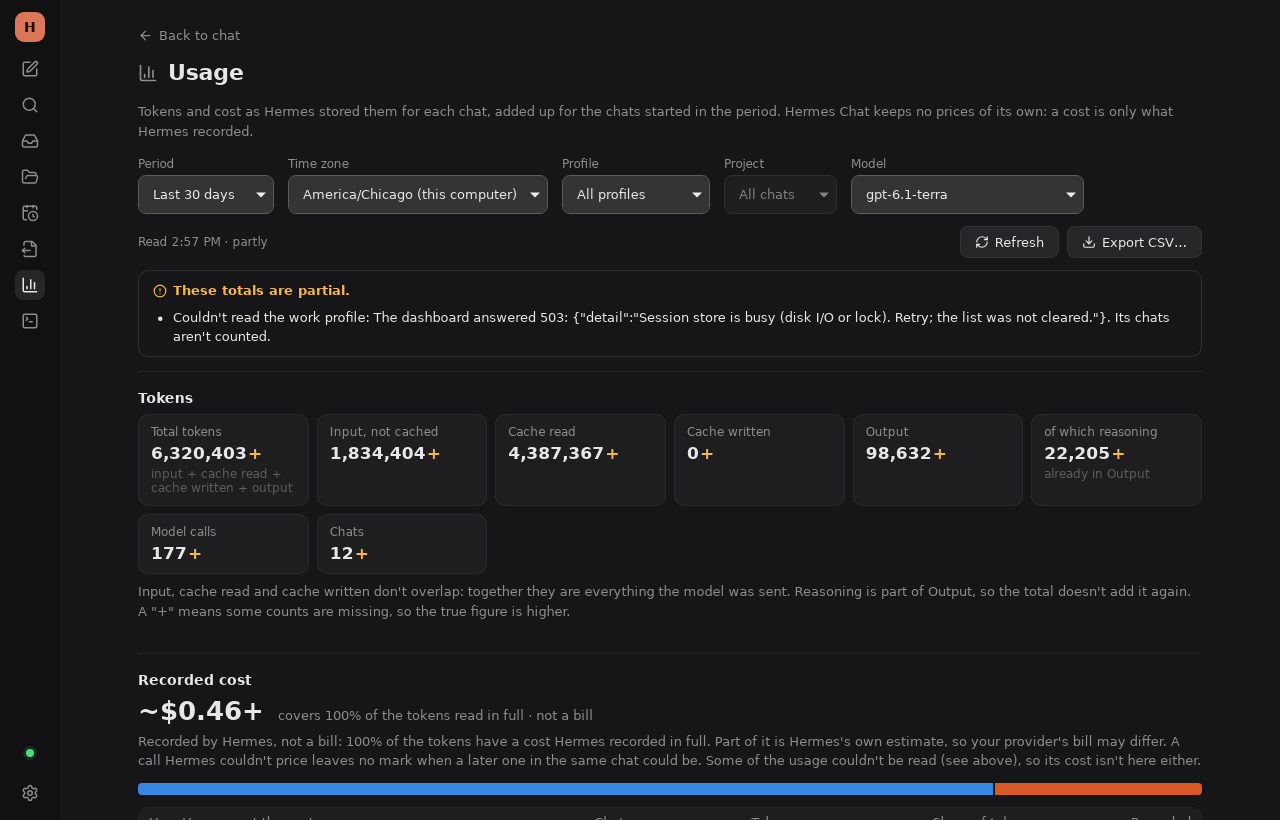
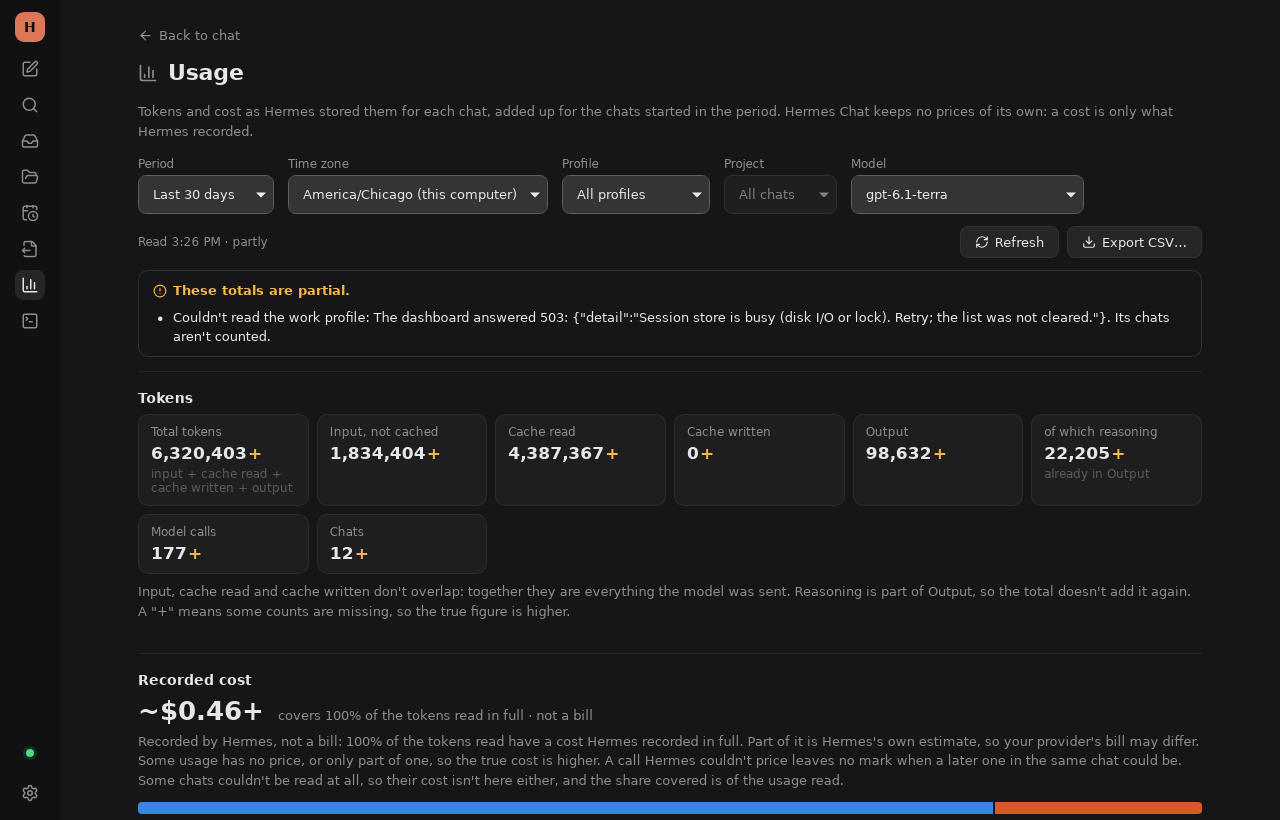
Retake the Usage analytics screenshots on the final code
Codex review round 7 passed. Its nit: the disconnect test now also resolves
the dropped read and checks its answer is ignored. Screenshots retaken from the
debug build on Xvfb, so the partial-failure one shows the final cost wording.

Changed region(s): [[0.0938, 0.8841, 0.9375, 1.0]]

diff --git a/src/ui/usageAnalytics.test.tsx b/src/ui/usageAnalytics.test.tsx
@@ -379,6 +379,10 @@ describe("The Usage screen", () => {
     rerender(<UsageAnalytics {...props(io, { connected: false })} />);
     await waitFor(() => expect(screen.getByRole("status").textContent).toBe("Not connected to Hermes."));
     expect(screen.queryByLabelText("working")).toBeNull();
+    // Its answer, arriving after the drop, is dropped too.
+    await act(async () => waiting[2].resolve());
+    expect(screen.queryByRole("region", { name: "Tokens" })).toBeNull();
+    expect(screen.getByRole("status").textContent).toBe("Not connected to Hermes.");
   });
 
   it("says when it can't read Hermes, and when this Hermes keeps no usage per chat", async () => {

diff --git a/docs/screenshots/usage-analytics/README.md b/docs/screenshots/usage-analytics/README.md
@@ -1,6 +1,6 @@
 # Usage analytics screenshots
 
-Captured on 2026-11-03 from the running Hermes Chat debug build (WebKitGTK, dev profile loading the Vite server) built from this branch, on an Xvfb display at 1280 × 820. The window has no window manager, so dialogs have no title bar. Nothing was composited or retouched.
+Captured on 2026-11-03 (retaken on the final code after review round 7) from the running Hermes Chat debug build (WebKitGTK, dev profile loading the Vite server) built from this branch, on an Xvfb display at 1280 × 820. The window has no window manager, so dialogs have no title bar. Nothing was composited or retouched.
 
 The app was signed in by URL to a local stub: the repo's `FakeHermes` behind real HTTP and WebSocket on loopback (`bridge.ts` here), not a real Hermes dashboard. Every chat, model, figure and profile is synthetic, generated from a fixed seed. The stub answers `GET /api/sessions?order=created`, `GET /api/sessions/{id}` and `GET /api/analytics/usage` the way the deployed `bf0203a` does: a compressed chat is listed under its last segment with its first segment's counts, and subagent runs are stored but never listed.
 
